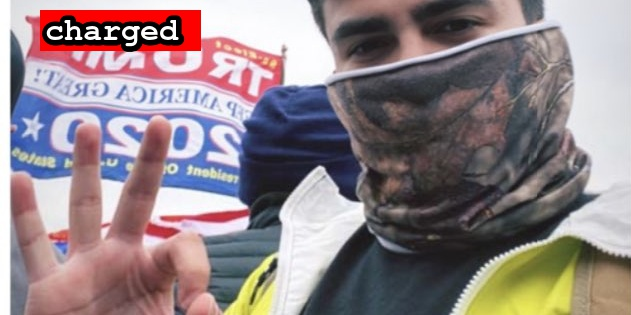
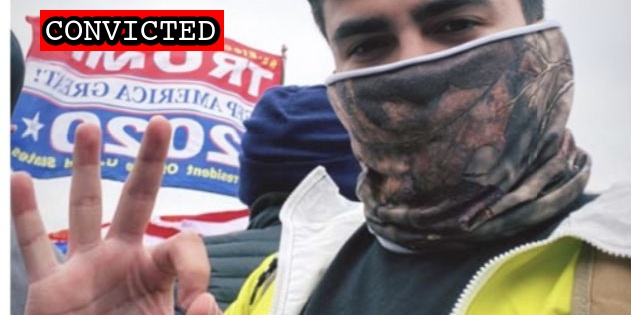
Latest import

Changed region(s): [[0.0602, 0.0286, 0.3613, 0.1714]]

diff --git a/docs/_suspects/bryan-betancur.md b/docs/_suspects/bryan-betancur.md
@@ -4,15 +4,17 @@ lastName: Betancur
 hashtag: BryanBetancur
 aka: Bryan Clooney, Maximo Clooney
 residence: Maryland
-status: Charged
+status: Convicted
 date: 2021-01-17
 charged: 2021-01-17
 indicted:
-convicted:
+convicted: 2022-05-05
+acquitted:
 sentenced:
 dismissed:
 deceased:
-plea_hearing:
+plea_hearing: 2022-05-05
+trial_date:
 sentencing:
 age: 26
 occupation:
@@ -34,9 +36,16 @@ published: true
 caseNumber: 1:21-cr-51
 videos:
 charges:
+  - code: 18 USC § 1752(a)(1)
+    title: Entering a restricted building or grounds
+    url: https://www.law.cornell.edu/uscode/text/18/1752
+    felony: false
 sentence:
 ---
+
 - [News Report](https://baltimore.cbslocal.com/2021/01/18/maryland-man-bryan-betancur-arrested-after-gps-monitor-places-him-at-us-capitol-during-riots-prosecutors-say/)
 - [Complaint](https://www.justice.gov/opa/page/file/1355926/download)
 - [Statement of Facts](https://www.justice.gov/opa/page/file/1355921/download)
 - [Information](https://www.justice.gov/usao-dc/case-multi-defendant/file/1371596/download)
+- [Plea Agreement](https://www.justice.gov/usao-dc/case-multi-defendant/file/1502406/download)
+- [Statement of Offense](https://www.justice.gov/usao-dc/case-multi-defendant/file/1502411/download)

diff --git a/docs/_suspects/kyle-young.md b/docs/_suspects/kyle-young.md
@@ -4,15 +4,17 @@ lastName: Young
 hashtag: AscendDad
 aka:
 residence: Iowa
-status: Indicted
+status: Convicted
 date: 2021-04-09
 charged: 2021-04-09
 indicted: 2021-04-09
-convicted:
+convicted: 2022-05-05
+acquitted:
 sentenced:
 dismissed:
 deceased:
 plea_hearing: 2022-05-05
+trial_date:
 sentencing:
 age: 37
 occupation:
@@ -34,8 +36,13 @@ published: true
 caseNumber: 1:21-cr-291
 videos:
 charges:
+- code: 40 USC § 5104(e)(2)(G)
+  title: Parading, demonstrating or picketing in a Capitol building
+  url: https://www.law.cornell.edu/uscode/text/40/5104
+  felony: false
 sentence:
 ---
-
 - [News Report](https://www.desmoinesregister.com/story/news/crime-and-courts/2021/04/16/kyle-james-young-charged-with-assaulting-washington-dc-police-officer-capitol-riot-attack/7262650002/)
-- [Indictment](https://extremism.gwu.edu/sites/g/files/zaxdzs2191/f/Sibick%20Head%20Young%20Indictment.pdf)
+- [Indictment](https://www.justice.gov/usao-dc/case-multi-defendant/file/1501336/download)
+- [Plea Agreement](https://www.justice.gov/usao-dc/case-multi-defendant/file/1501341/download)
+- [Statement of Offense](https://www.justice.gov/usao-dc/case-multi-defendant/file/1501346/download)
